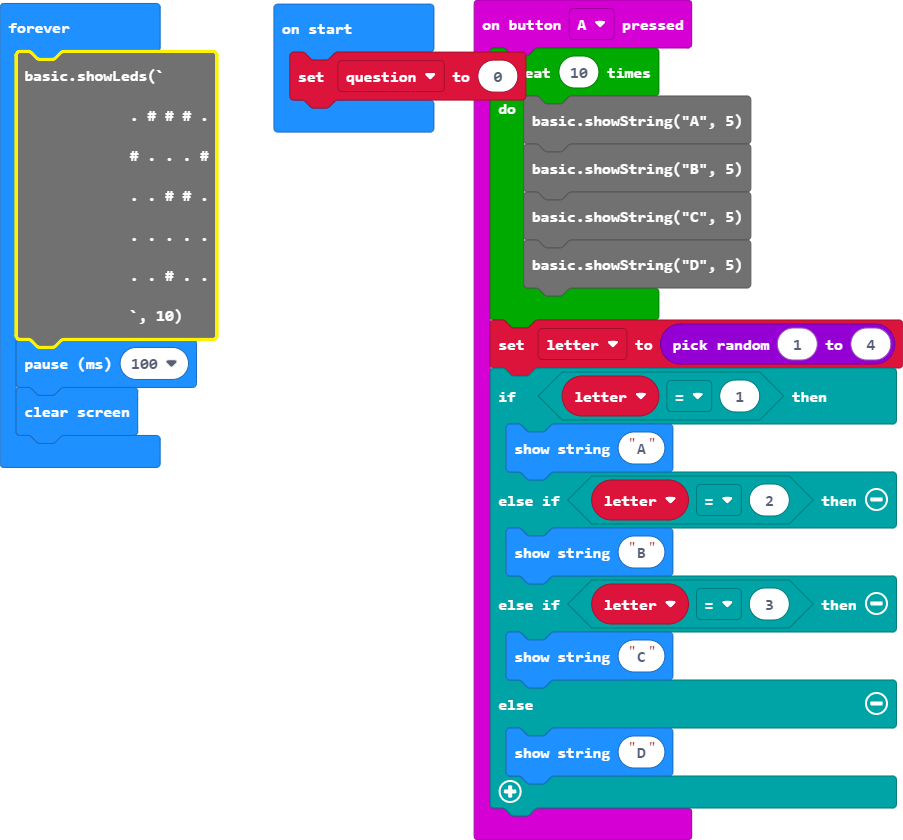
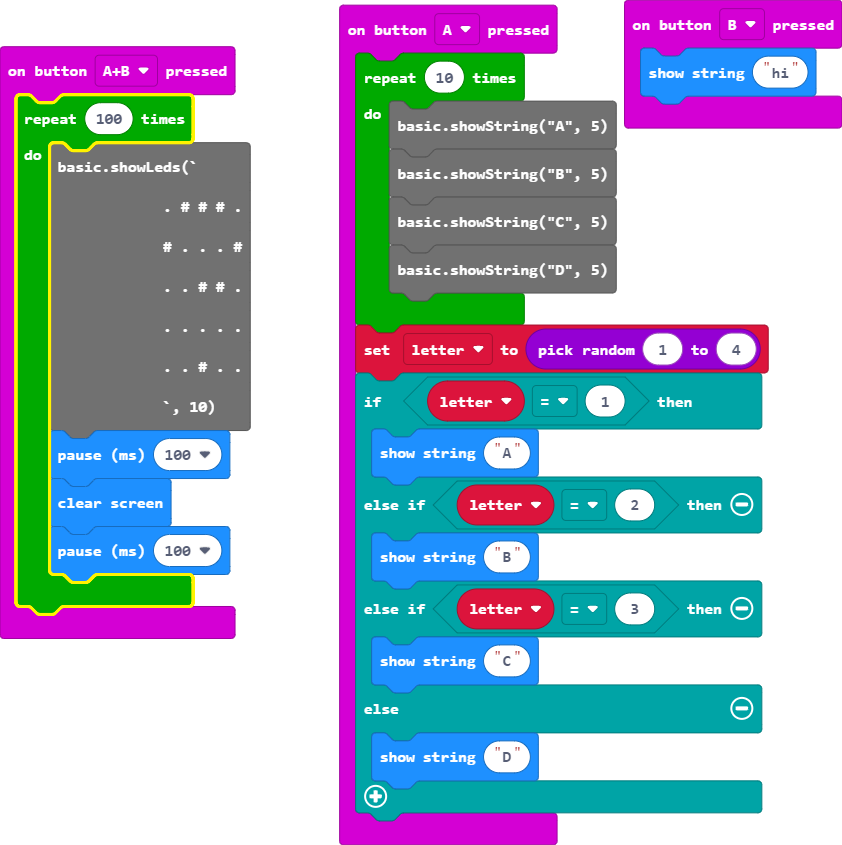
Update main.blocks, main.ts

diff --git a/main.ts b/main.ts
@@ -1,3 +1,4 @@
+let letter = 0
 input.onButtonPressed(Button.A, function () {
     for (let index = 0; index < 10; index++) {
         basic.showString("A", 5)
@@ -16,10 +17,9 @@ basic.showString("D", 5)
         basic.showString("D")
     }
 })
-let letter = 0
-let question = 0
-basic.forever(function () {
-    basic.showLeds(`
+input.onButtonPressed(Button.AB, function () {
+    for (let index = 0; index < 100; index++) {
+        basic.showLeds(`
             . # # # .
             # . . . #
             . . # # .
@@ -27,5 +27,10 @@ basic.forever(function () {
             . . # . .
             `, 10)
 basic.pause(100)
-    basic.clearScreen()
+        basic.clearScreen()
+        basic.pause(100)
+    }
+})
+input.onButtonPressed(Button.B, function () {
+    basic.showString("hi")
 })
